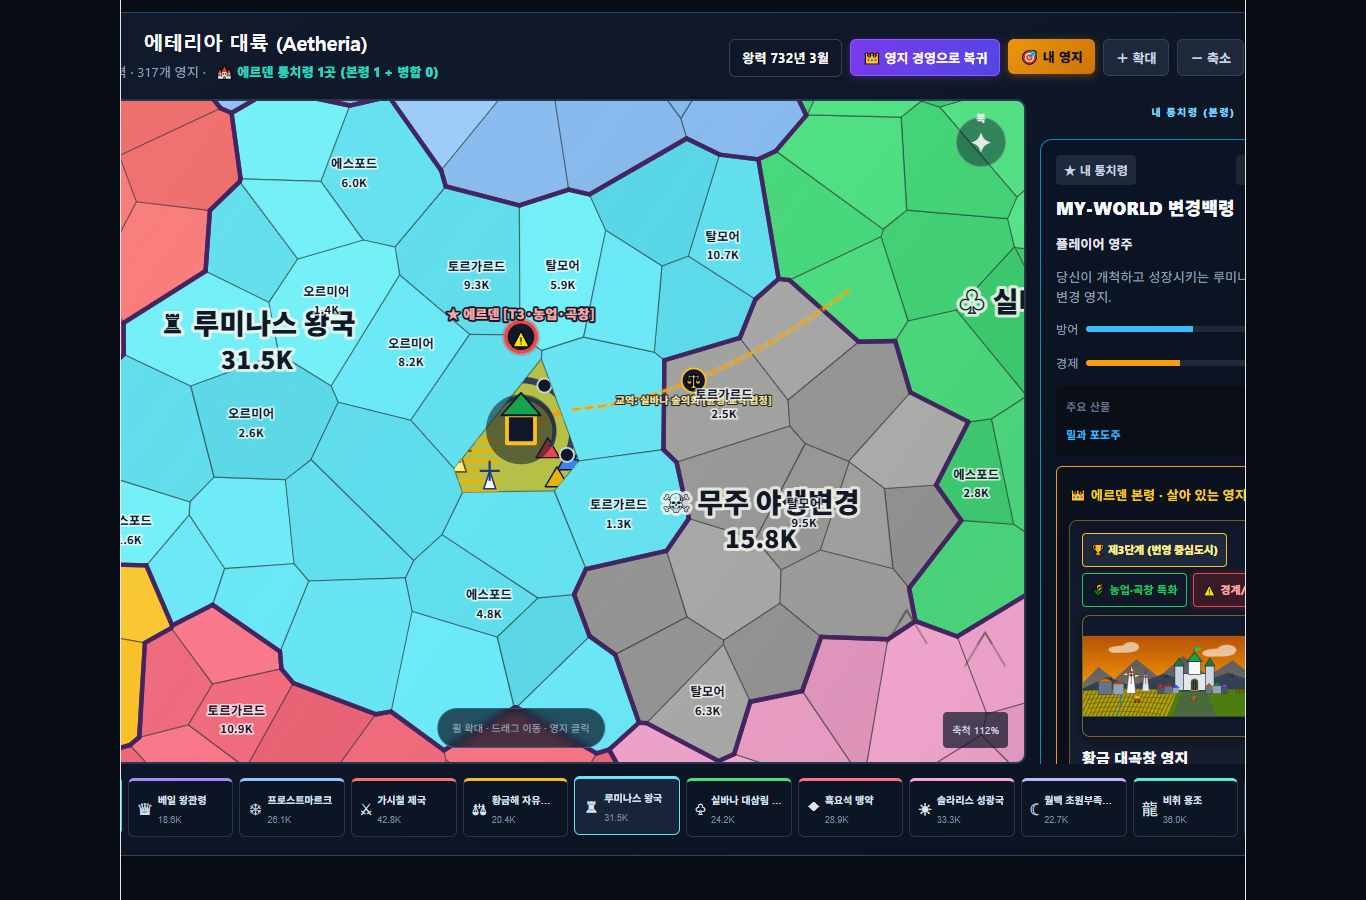
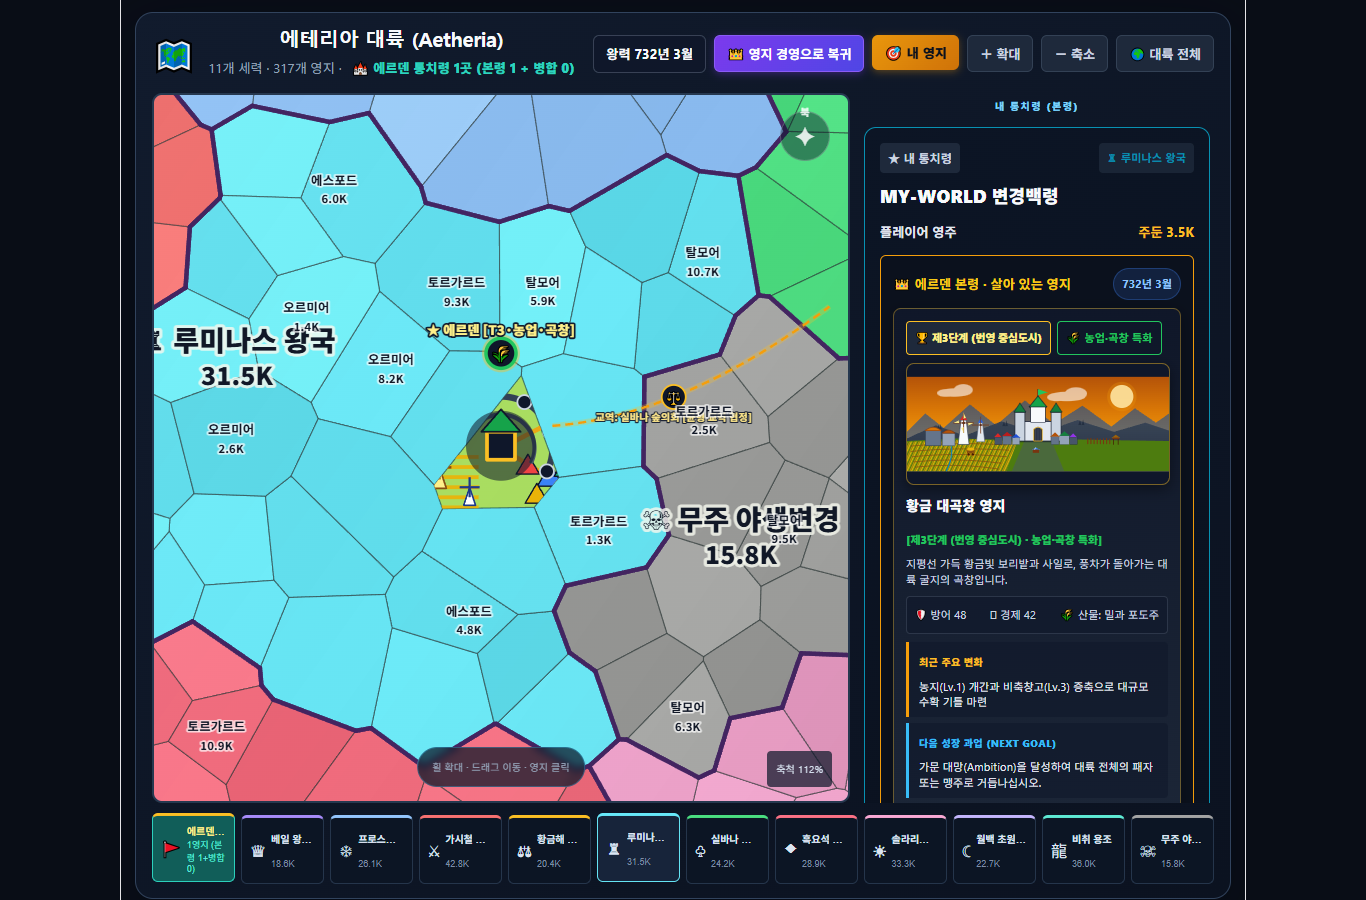
fix(realm): integrate living realm polish and calibrate mobile/desktop visual fidelity

diff --git a/src/App.css b/src/App.css
@@ -2022,34 +2022,45 @@ body {
 
 /* Aetheria grand-strategy atlas overrides */
 .world-map-wrapper {
-  width: min(1660px, calc(100vw - 32px));
-  margin-left: 50%;
-  transform: translateX(-50%);
-  padding: 18px;
-  gap: 14px;
+  box-sizing: border-box;
+  width: 100%;
+  max-width: 1334px;
+  margin: 0 auto;
+  padding: 14px 16px;
+  gap: 12px;
   background: linear-gradient(145deg, #111b2d 0%, #0b1220 100%);
   border-color: #31435d;
   box-shadow: 0 20px 55px rgba(1, 8, 20, 0.38);
 }
 
 .map-main-layout {
-  grid-template-columns: minmax(0, 1fr) 310px;
+  display: grid;
+  grid-template-columns: minmax(0, 1fr) 350px;
   gap: 14px;
+  width: 100%;
+  box-sizing: border-box;
 }
 
 .map-canvas-container {
-  height: min(730px, calc(100vh - 235px));
+  height: min(740px, calc(100vh - 190px));
   min-height: 590px;
   background: #2c557f;
   border: 2px solid #26384f;
   border-radius: 10px;
   box-shadow: inset 0 0 40px rgba(7, 22, 42, 0.38);
+  box-sizing: border-box;
 }
 
 .map-inspector-panel {
-  max-height: min(730px, calc(100vh - 235px));
+  box-sizing: border-box;
+  width: 100%;
+  max-height: min(740px, calc(100vh - 190px));
   min-height: 590px;
-  padding-right: 3px;
+  padding-right: 4px;
+  overflow-y: auto;
+  display: flex;
+  flex-direction: column;
+  gap: 8px;
 }
 
 .map-hover-chip {
@@ -2521,7 +2532,7 @@ body {
 .realm-quick-actions button { padding: 8px 4px; color: #9eb0b6; background: #18252b; border: 1px solid #304047; font-size: 10px; cursor: pointer; }
 .realm-quick-actions button:hover { color: #e2d2a8; border-color: #766442; }
 
-.realm-news-panel { grid-column: 1 / 3; }
+.realm-news-panel { grid-column: 1 / -1; }
 .realm-text-button { color: #6d7c83; background: transparent; border: 0; font-size: 10px; cursor: pointer; }
 .realm-news-list { display: grid; grid-template-columns: repeat(3, 1fr); }
 .realm-news { min-height: 100px; padding: 13px 15px; border-right: 1px solid #26353b; }
@@ -2626,7 +2637,7 @@ body {
    ========================================================================== */
 
 .world-response-panel {
-  grid-column: 1 / 3;
+  grid-column: 1 / -1;
   background:
     radial-gradient(ellipse at 88% 18%, rgba(214, 173, 92, 0.14), transparent 45%),
     linear-gradient(145deg, #15232b 0%, #0d171d 100%);
@@ -3432,7 +3443,19 @@ body {
   .realm-resource-bar { grid-template-columns: repeat(4, 1fr); }
   .realm-resource-bar > div:nth-child(4) { border-right: 0; }
   .realm-overview-grid { grid-template-columns: 1fr; }
-  .realm-news-panel { grid-column: 1; }
+  .living-realm-panorama-container,
+  .realm-traits-banner,
+  .field-quest-panel,
+  .world-response-panel,
+  .realm-threat-alerts,
+  .realm-directives-panel,
+  .realm-domain-panel,
+  .realm-ledger-panel,
+  .realm-news-panel {
+    grid-column: 1 / -1 !important;
+    width: 100%;
+    box-sizing: border-box;
+  }
   .policy-branches { grid-template-columns: 1fr; }
   .policy-branch { display: grid; grid-template-columns: 180px 1fr 1fr; align-items: stretch; }
   .policy-branch > header { min-height: 0; }
@@ -4455,7 +4478,7 @@ body {
 
 /* Threat Alert Banners */
 .realm-threat-alerts {
-  grid-column: 1 / 3;
+  grid-column: 1 / -1;
   display: grid;
   gap: 10px;
   margin-bottom: 8px;
@@ -4576,7 +4599,7 @@ body {
 
 /* Strategic Directives Panel */
 .realm-directives-panel {
-  grid-column: 1 / 3;
+  grid-column: 1 / -1;
 }
 
 .directives-step-badge {
@@ -6097,6 +6120,7 @@ body {
   font-size: 11px;
   font-weight: 800;
   letter-spacing: -0.02em;
+  white-space: nowrap;
 }
 
 .living-spec-badge {
@@ -6107,6 +6131,7 @@ body {
   border-radius: 4px;
   font-size: 11px;
   font-weight: 700;
+  white-space: nowrap;
 }
 
 .living-distress-badge {
@@ -6117,21 +6142,49 @@ body {
   border-radius: 4px;
   font-size: 11px;
   font-weight: 800;
+  white-space: nowrap;
   animation: pulse-border 2s infinite;
 }
 
+.living-fief-stage-callout {
+  display: flex;
+  align-items: baseline;
+  gap: 8px;
+  flex-wrap: wrap;
+  margin: 6px 0 3px;
+}
+
 .living-fief-subheading {
-  font-size: 15px;
+  font-size: 14px;
   font-weight: 800;
   color: #f8fafc;
-  margin: 0 0 4px 0;
+  margin: 0;
+}
+
+.living-fief-spec-tag {
+  font-size: 11px;
+  font-weight: 800;
+  letter-spacing: -0.01em;
+}
+
+.fief-compact-stats {
+  display: flex;
+  justify-content: space-between;
+  gap: 6px;
+  background: rgba(15, 23, 42, 0.6);
+  border: 1px solid rgba(148, 163, 184, 0.2);
+  border-radius: 4px;
+  padding: 5px 8px;
+  font-size: 11px;
+  color: #cbd5e1;
+  margin: 6px 0 8px;
 }
 
 .living-fief-summary-p {
-  font-size: 12px;
-  line-height: 1.5;
+  font-size: 11px;
+  line-height: 1.45;
   color: #cbd5e1;
-  margin: 0 0 10px 0;
+  margin: 0 0 8px 0;
 }
 
 .living-milestone-box {
@@ -6563,23 +6616,54 @@ body {
     padding: 6px 4px;
     font-size: 11px;
   }
+  .realm-content {
+    padding: 8px 6px !important;
+  }
+  .realm-overview-grid {
+    grid-template-columns: 1fr !important;
+    gap: 8px;
+  }
+  .living-realm-panorama-container,
+  .realm-traits-banner,
+  .field-quest-panel,
+  .world-response-panel,
+  .realm-threat-alerts,
+  .realm-directives-panel,
+  .realm-domain-panel,
+  .realm-ledger-panel,
+  .realm-news-panel {
+    grid-column: 1 / -1 !important;
+    width: 100% !important;
+    box-sizing: border-box !important;
+  }
   .living-realm-panorama-container {
     margin-bottom: 8px;
+    width: 100%;
+    box-sizing: border-box;
   }
-  .panorama-top-bar {
-    padding: 6px 8px;
+  .panorama-header {
+    padding: 8px 10px;
+    gap: 6px;
+    flex-wrap: wrap;
+  }
+  .panorama-title-wrap {
+    gap: 2px;
+  }
+  .panorama-realm-title {
+    font-size: 14px;
+    margin: 0;
+  }
+  .panorama-badges {
     gap: 4px;
     flex-wrap: wrap;
   }
-  .panorama-title-group h3 {
-    font-size: 13px;
-    margin: 0;
-  }
-  .panorama-badges-group {
-    gap: 4px;
+  .p-badge {
+    padding: 3px 6px;
+    font-size: 10px;
   }
   .p-tier-badge,
-  .p-spec-badge {
+  .p-spec-badge,
+  .p-distress-badge {
     font-size: 10px;
     padding: 2px 6px;
   }
@@ -6588,7 +6672,12 @@ body {
     font-size: 11px;
   }
   .panorama-canvas-viewport {
-    height: 195px !important;
+    height: 200px !important;
+    width: 100%;
+  }
+  .panorama-skyline-svg {
+    width: 100%;
+    height: 100%;
   }
   .panorama-sector-legend-strip {
     display: none; /* Maximize landscape visibility on compact mobile */
@@ -6597,6 +6686,9 @@ body {
     grid-template-columns: 1fr;
     padding: 8px 10px;
     gap: 6px;
+  }
+  .p-card {
+    padding: 8px 10px;
   }
   .living-sectors-grid {
     grid-template-columns: 1fr;

diff --git a/src/components/WorldMapView.tsx b/src/components/WorldMapView.tsx
@@ -712,17 +712,7 @@ export const WorldMapView: React.FC<WorldMapViewProps> = ({ realm, onReturnToTow
               <strong>{isSelectedAnnexed ? '에르덴 변경백 직속 통치' : selectedProvince.rulerName}</strong>
               <span>주둔 {selectedProvince.troops} {isSelectedAnnexed ? '(에르덴 수비대)' : ''}</span>
             </div>
-            <p className="fief-description">
-              {isSelectedAnnexed && selectedAnnexedInfo
-                ? `${selectedProvince.description} (에르덴 변경백령의 원정으로 ${selectedAnnexedInfo.neighbor.name}에서 병합된 직속 통치령입니다.)`
-                : selectedProvince.description}
-            </p>
-            <div className="fief-ratings">
-              <div className="rating-row"><span>방어</span><div className="rating-bar"><div className="rating-bar-fill def" style={{ width: `${selectedProvince.defense}%` }} /></div><b>{selectedProvince.defense}</b></div>
-              <div className="rating-row"><span>경제</span><div className="rating-bar"><div className="rating-bar-fill eco" style={{ width: `${selectedProvince.economy}%` }} /></div><b>{selectedProvince.economy}</b></div>
-            </div>
-            <div className="specialty-box"><span className="spec-label">주요 산물</span><span className="spec-val">{selectedProvince.specialty}</span></div>
-            {selectedProvince.isPlayerFief && (
+            {selectedProvince.isPlayerFief ? (
               <div className="player-live-box">
                 <div className="player-live-top-row">
                   <h4>👑 에르덴 본령 · 살아 있는 영지</h4>
@@ -750,12 +740,23 @@ export const WorldMapView: React.FC<WorldMapViewProps> = ({ realm, onReturnToTow
                     <LivingRealmDioramaSvg analysis={growthAnalysis} className="diorama-mini-svg" viewBox="0 0 1000 360" />
                   </div>
 
-                  <h5 className="living-fief-subheading">{growthAnalysis.tierTitle}</h5>
+                  <div className="living-fief-stage-callout">
+                    <h5 className="living-fief-subheading">{growthAnalysis.tierTitle}</h5>
+                    <span className="living-fief-spec-tag" style={{ color: growthAnalysis.specColor }}>
+                      [{growthAnalysis.tierLabel} · {growthAnalysis.specLabel}]
+                    </span>
+                  </div>
                   <p className="living-fief-summary-p">{growthAnalysis.summaryPhrase}</p>
+
+                  <div className="fief-compact-stats">
+                    <span>🛡 방어 {selectedProvince.defense}</span>
+                    <span>🪙 경제 {selectedProvince.economy}</span>
+                    <span>🌾 산물: {selectedProvince.specialty}</span>
+                  </div>
 
                   <div className="living-milestone-box">
                     <div className="milestone-label-row">
-                      <span className="milestone-tag tag-recent">최근 주요 변화의 원인</span>
+                      <span className="milestone-tag tag-recent">최근 주요 변화</span>
                     </div>
                     <p className="milestone-text">{growthAnalysis.recentMilestone}</p>
                   </div>
@@ -866,6 +867,19 @@ export const WorldMapView: React.FC<WorldMapViewProps> = ({ realm, onReturnToTow
                   👑 영지 경영으로 복귀
                 </button>
               </div>
+            ) : (
+              <>
+                <p className="fief-description">
+                  {isSelectedAnnexed && selectedAnnexedInfo
+                    ? `${selectedProvince.description} (에르덴 변경백령의 원정으로 ${selectedAnnexedInfo.neighbor.name}에서 병합된 직속 통치령입니다.)`
+                    : selectedProvince.description}
+                </p>
+                <div className="fief-ratings">
+                  <div className="rating-row"><span>방어</span><div className="rating-bar"><div className="rating-bar-fill def" style={{ width: `${selectedProvince.defense}%` }} /></div><b>{selectedProvince.defense}</b></div>
+                  <div className="rating-row"><span>경제</span><div className="rating-bar"><div className="rating-bar-fill eco" style={{ width: `${selectedProvince.economy}%` }} /></div><b>{selectedProvince.economy}</b></div>
+                </div>
+                <div className="specialty-box"><span className="spec-label">주요 산물</span><span className="spec-val">{selectedProvince.specialty}</span></div>
+              </>
             )}
           </div>
 

diff --git a/scripts/verify-browser-milestone11.ts b/scripts/verify-browser-milestone11.ts
@@ -26,6 +26,23 @@ async function advanceOneMonth(page: Page) {
     await page.waitForTimeout(150)
   }
 
+  // If there's an active threat alert, proactively issue counter directive
+  const threatRespondBtn = await page.$('.btn-threat-respond')
+  if (threatRespondBtn) {
+    await threatRespondBtn.click()
+    await page.waitForTimeout(150)
+    const enactBtn = await page.$('.btn-enact-counter:not(:disabled)')
+    if (enactBtn) {
+      await enactBtn.click()
+      await page.waitForTimeout(150)
+    }
+    const overviewTab = await page.$('button.realm-tab-btn:has-text("영지 개요")')
+    if (overviewTab) {
+      await overviewTab.click()
+      await page.waitForTimeout(150)
+    }
+  }
+
   // Click Monthly Turn Advance Button
   const turnBtn = await page.$('.realm-turn-block button')
   if (turnBtn) {
@@ -510,6 +527,15 @@ async function runBrowserVerification() {
       }
       if (!milSpec12m.includes('군사') && !milSpec12m.includes('방벽')) {
         throw new Error('군사 특화가 완성되지 않았습니다.')
+      }
+
+      // Verify that representative military growth is normal and not masked by crisis collapse
+      const distressBadgeEl = await page.$('.p-distress-badge')
+      if (distressBadgeEl) {
+        const text = await distressBadgeEl.innerText()
+        if (text.includes('붕괴') || text.includes('전란')) {
+          throw new Error(`군사 대표 12개월 경로는 정상 성장 증거여야 하며 치안 붕괴가 발생하지 않아야 합니다: ${text}`)
+        }
       }
 
       await page.locator('.living-realm-panorama-container').screenshot({
